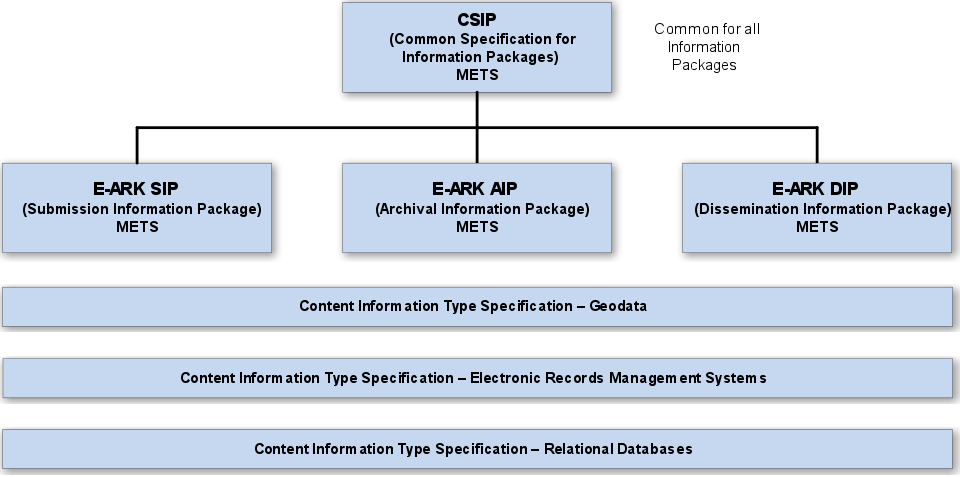
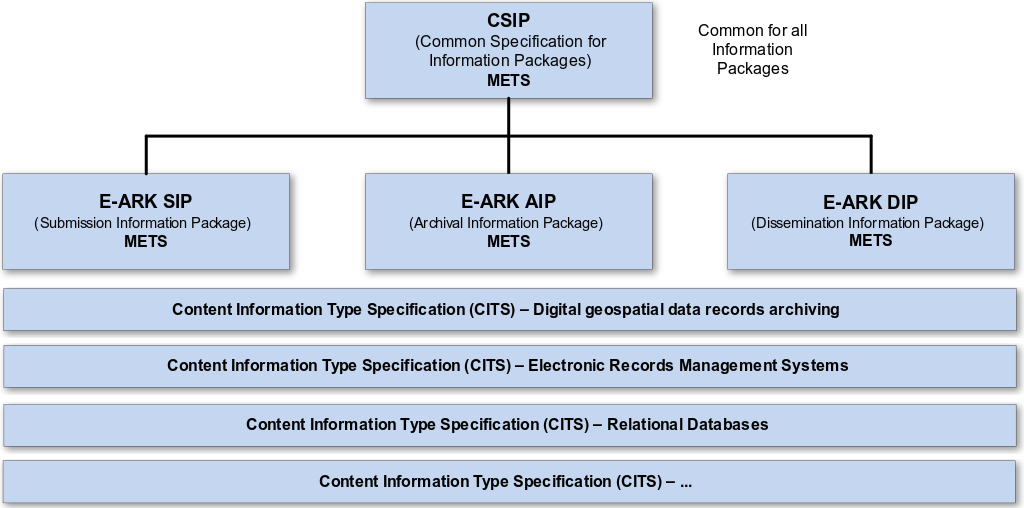
FIX: Update PNG diagram.

diff --git a/res/md/common-intro.md b/res/md/common-intro.md
@@ -6,7 +6,7 @@ The specifications are designed to help data creators, software developers, and 
 A visualisation of the current specification network can be seen here:
 
 <a name="figi-dip"></a>
-![OAIS Entities](figs/fig_1_dip.svg "Diagram showing E-ARK specification dependency hierarchy")
+![OAIS Entities](figs/fig_1_dip.png "Diagram showing E-ARK specification dependency hierarchy")
 
 **Figure I:** Diagram showing E-ARK specification dependency hierarchy. Note that the image only shows a selection of the published CITS and isn't an exhaustive list.
 
